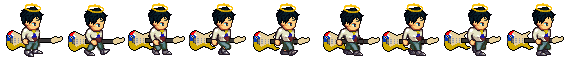
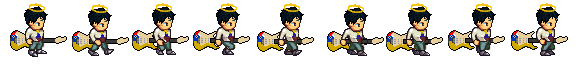
sprite walking animation for selection screen

Changed region(s): [[0.0, 0.0312, 1.0, 0.9062]]

diff --git a/app/scripts/components/selection-screen/selection-player-panel.jsx b/app/scripts/components/selection-screen/selection-player-panel.jsx
@@ -15,7 +15,8 @@ export default class SelectionPlayerPanel extends React.Component {
             player = props.player,
             firstCharacter = props.firstCharacter,
             secondCharacter = props.secondCharacter,
-            thirdCharacter = props.thirdCharacter;
+            thirdCharacter = props.thirdCharacter,
+            spriteStatus = 'walking';
 
         if (player == 1 && firstCharacter.hasOwnProperty('player')){
             panelCharacter = firstCharacter;
@@ -24,11 +25,16 @@ export default class SelectionPlayerPanel extends React.Component {
         } else if (player == 3 && thirdCharacter.hasOwnProperty('player')) {
             panelCharacter = thirdCharacter;
         } else {
-            panelCharacter = {name: 'Select'}
+            panelCharacter = {name: 'Select'};
+            spriteStatus = 'standing';
         }
 
-        var playerClass = panelCharacter.name != 'Select' ? panelCharacter.class : "";
-        var playerSummary = panelCharacter.name != 'Select' ? panelCharacter.profileText : "";
+        var playerClass = panelCharacter.name != 'Select' ? panelCharacter.class : "",
+            playerSummary = panelCharacter.name != 'Select' ? panelCharacter.profileText : "",
+            walkingSpriteUrl = "/images/" + panelCharacter.name.toLowerCase() + "_walking.png",
+            walkingSpriteStyles ={
+            backgroundImage: 'url(' + walkingSpriteUrl + ')'
+        };
 
         return (
             <tr className="player-selection-panel">
@@ -43,7 +49,10 @@ export default class SelectionPlayerPanel extends React.Component {
                 </td>
 
                 <td>
-                    <img src={"/images/" + panelCharacter.name.toLowerCase() + "_standing.png"} alt={panelCharacter.name}/>
+                    {spriteStatus == 'walking'?
+                        <div className="sprite-walking" style={walkingSpriteStyles}></div> :
+                        <img src={"/images/" + panelCharacter.name.toLowerCase() + "_standing.png"} alt={panelCharacter.name}/>
+                    }
                 </td>
 
                 <td>

diff --git a/app/scripts/components/battle/action-panels/player-panel.jsx b/app/scripts/components/battle/action-panels/player-panel.jsx
@@ -179,10 +179,10 @@ var PlayerPanel = React.createClass ({
         return (
             <div class="action-panel">
                 <div className="player-name-attack-panel">{this.props.activePlayer.name}</div>
-                <div className={attackClasses} onClick={() => {this.props.screenHandler('attackP')}}>Attack</div>
-                <div className={defendClasses} onClick={() => {this.defend()}}>Defend</div>
-                <div className={meditateClasses} onClick={() => {this.meditate()}}>Meditate</div>
-                <div className={encourageClasses} onClick={() => {this.props.screenHandler('selectET')}}>Encourage</div>
+                <div className={attackClasses}>Attack</div>
+                <div className={defendClasses}>Defend</div>
+                <div className={meditateClasses}>Meditate</div>
+                <div className={encourageClasses}>Encourage</div>
 
             </div>
 

diff --git a/app/scripts/components/start-screen/start_screen.jsx b/app/scripts/components/start-screen/start_screen.jsx
@@ -14,7 +14,7 @@ class StartScreen extends React.Component {
     }
 
     pressEnterForStart(e){
-        if(e.key == 'Enter'){
+        if(e.keyCode == 32){
             this.props.resetPlayers();
             var audio = new Audio('/music/enter-button.mp3');
             audio.play();
@@ -35,8 +35,8 @@ class StartScreen extends React.Component {
         return (
             <div className="start-screen">
                 <div className="game-title">Sardonic Warriors</div>
-                <Link id="start-button" className="btn btn-success" onClick={this.props.resetPlayers} to="intro" ><h1>Press Enter</h1></Link>
-                <audio src="/music/dubstep-intro.mp3" loop autoPlay></audio>
+                <div className="btn btn-success"><h1>Press Space</h1></div>
+                <audio src="/music/dubstep-intro.mp3" loop></audio>
             </div>
         );
     }

diff --git a/app/scripts/components/intro/panels/intro-panel-1.jsx b/app/scripts/components/intro/panels/intro-panel-1.jsx
@@ -37,7 +37,7 @@ export default class IPanel1 extends React.Component {
                     <div className="story-text">Gayathri can be spotted there, making loud, indistinguishable noises, which could be interpreted to mean: 'I am alive! hear me roar!'</div>
                     <div className="story-text">Meanwhile, hundred of meters  above the clouds, the clash between human-made pollution and barometric pressure brews a pocket storm.</div>
                 </div>
-                <Link className="story-next-button" to="intro/2">Next</Link>
+                <div className="story-next-button">Press Enter</div>
             </div>
         );
     }

diff --git a/app/scripts/components/selection-screen/selection-character-profile.jsx b/app/scripts/components/selection-screen/selection-character-profile.jsx
@@ -22,7 +22,7 @@ export default class SelectionCharacterProfile extends React.Component {
             }
 
         return (
-            <li className="character-profile list-group" onClick={this.onSelectCharacter.bind(this)}>
+            <li className="character-profile list-group">
                 <span className={`character-name ${highlightStatus}`}>{character.name}</span><span className="character-hp label label-default label-pill pull-xs-right">{character.maxHp}HP</span><span className="character-courage label label-default label-pill pull-xs-right"> {character.maxCourage}Courage</span>
             </li>
         );

diff --git a/app/scripts/components/selection-screen/selection_screen.jsx b/app/scripts/components/selection-screen/selection_screen.jsx
@@ -96,6 +96,7 @@ class SelectionScreen extends React.Component {
 
         if(e.keyCode == 32 && all_selected) {
             this.context.history.pushState(null, 'battle');
+            this.props.resetBoss();
         }
     }
 
@@ -127,7 +128,7 @@ class SelectionScreen extends React.Component {
                         <ToBattleButton ready={false} {...this.props} />
                     }
                 </div>
-                <audio src="/music/selection-screen.mp3" loop></audio>
+                <audio src="/music/selection-screen.mp3" autoPlay loop></audio>
             </div>
         );
     }

diff --git a/app/scripts/components/battle/text-panels/initial-text-box.jsx b/app/scripts/components/battle/text-panels/initial-text-box.jsx
@@ -54,15 +54,10 @@ class InitialTextBox extends React.Component{
 
 
     render() {
-        document.body.addEventListener('keydown', (e) => {
-            if(e.key == 'Enter'){
-                this.switchText.bind(this);
-            }
-        });
         return (
             <div>
                 <div className="battle-text-box-text">{this.state.activeText}</div>
-                <div onClick={this.switchText.bind(this)}>Next</div>
+                <div>Press Enter</div>
             </div>
         );
     }

diff --git a/app/scripts/components/battle/action-panels/attack-panel.jsx b/app/scripts/components/battle/action-panels/attack-panel.jsx
@@ -178,7 +178,7 @@ var AttackPanel = React.createClass({
                 {Object.keys(attacks).map(function(key){
                     return <AttackBox key={key} index={key} attacks={attacks} highlightedIndex={state.highlightedIndex} {...props}/>;
                 })}
-                <div className={`back-button ${status}`} onClick={() => {this.props.screenHandler('PlayerP')}}>Back</div>
+                <div className={`back-button ${status}`}>Back</div>
             </div>
         );
     }

diff --git a/app/scripts/components/intro/panels/intro-panel-3.jsx b/app/scripts/components/intro/panels/intro-panel-3.jsx
@@ -44,7 +44,7 @@ class IPanel3 extends React.Component {
                 <div className="story-text">
                     Her skin hardens and segments into scales, she is even more resilient to the criticism and pleas of mercy.
                 </div>
-                <Link className="story-next-button" to="intro/4">Next</Link>
+                <div className="story-next-button">Press Enter</div>
                 <audio src="/music/thunder.mp3" autoPlay></audio>
             </div>
         );

diff --git a/app/scripts/components/selection-screen/to-battle-button.jsx b/app/scripts/components/selection-screen/to-battle-button.jsx
@@ -21,7 +21,7 @@ export default class ToBattleButton extends React.Component {
         return (
             <div>
                 {props.ready ?
-                    <Link onClick={()=> {this.props.resetBoss}} to="battle">To Battle!</Link> :
+                    <div id="to-battle">Press Space to Enter Battle</div> :
                     characterCount == 2?
                         <div>Pick one more Hero</div> :
                         <div>Pick {3-characterCount} more Heroes</div>

diff --git a/app/scripts/components/Intro/panels/intro-panel-4.jsx b/app/scripts/components/Intro/panels/intro-panel-4.jsx
@@ -49,11 +49,10 @@ class IPanel4 extends React.Component {
                     Who can rise up and defeat this terror?
                 </div>
                 <audio src="/music/trex.mp3" autoPlay></audio>
-                <Link className="story-next-button" onClick={this.props.resetPlayers} to="selection-screen">Next</Link>
+                <div className="story-next-button">Press Enter</div>
             </div>
         );
     }
-
 }
 
 reactMixin(IPanel4, History);

diff --git a/app/scripts/components/intro/panels/intro-panel-2.jsx b/app/scripts/components/intro/panels/intro-panel-2.jsx
@@ -43,7 +43,7 @@ class IPanel2 extends React.Component {
                 <div className="story-text">
                     As if to corroborate her point, she flails about like a possessed marionette. The cloud has found its target.
                 </div>
-                <Link className="story-next-button" to="intro/3">Next</Link>
+                <div className="story-next-button">Press Enter</div>
             </div>
         );
     }
